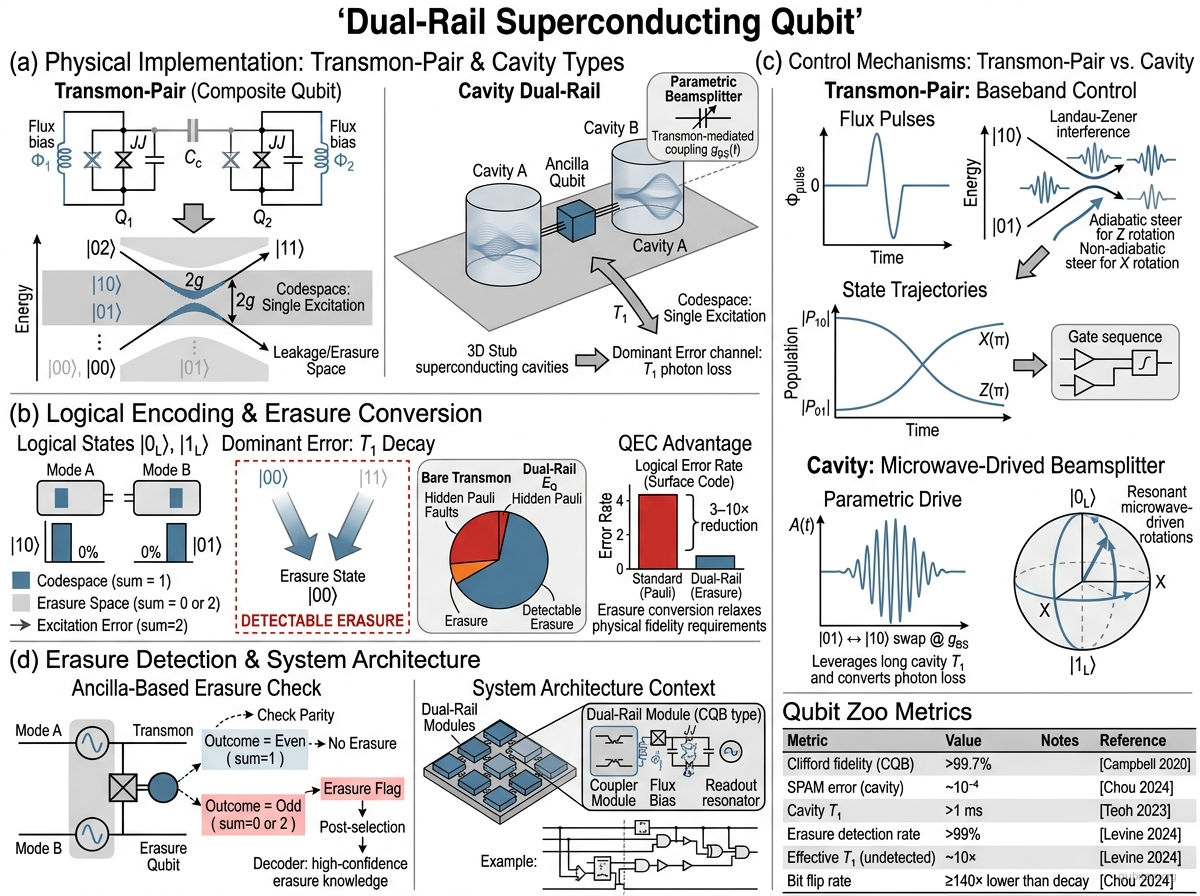
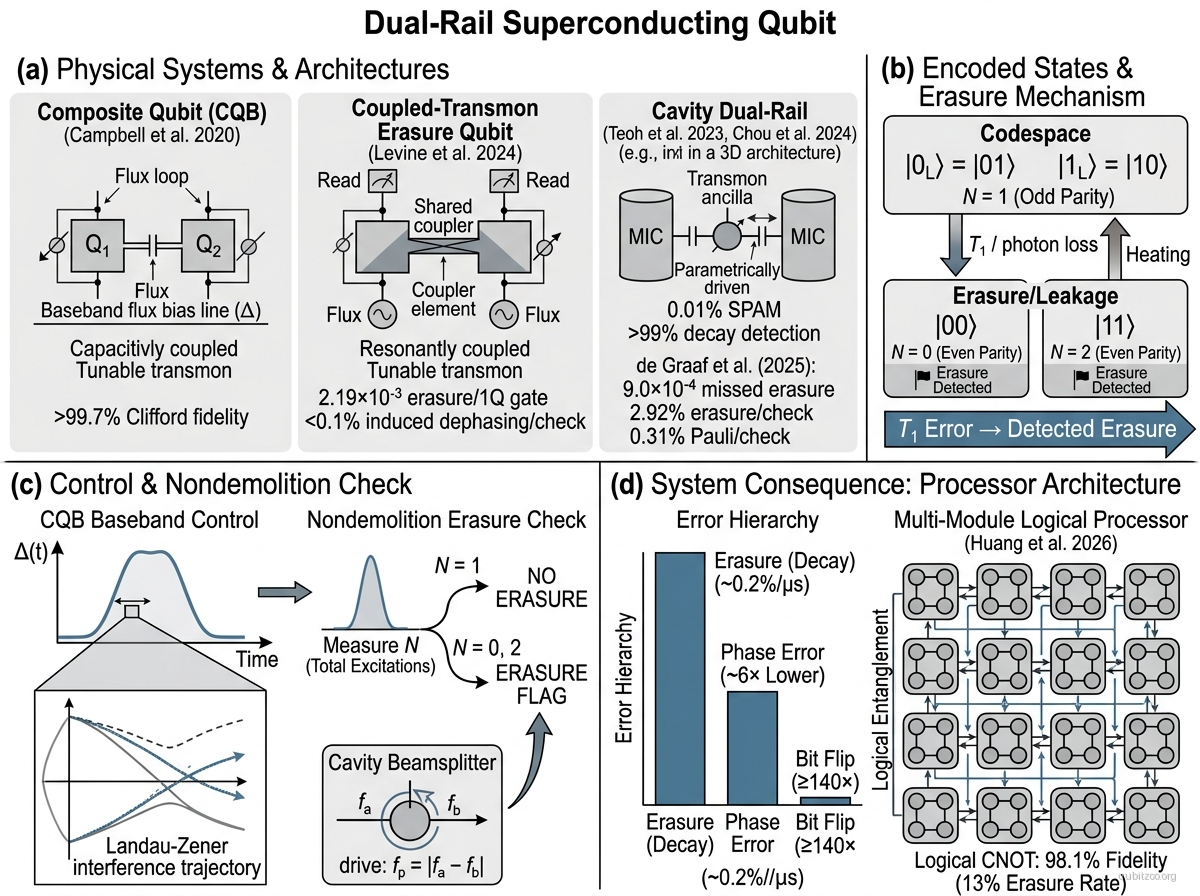
content: deep-audit dual-rail superconducting qubit

diff --git a/content/Zoo/dual-rail-superconducting-qubit.md b/content/Zoo/dual-rail-superconducting-qubit.md
@@ -3,6 +3,7 @@ title: Dual-Rail Superconducting Qubit
 entry_type: qubit
 technology_family: Superconducting
 status: demonstrated
+influence_score: 0.50
 figure_reviewed: true
 first_proposed_year: 2016
 first_demonstrated_year: 2020
@@ -14,15 +15,15 @@ keywords:
 - erasure
 - cavity
 - baseband
-last_updated: '2026-03-21'
+last_updated: '2026-08-13'
 generated_by: scibok-curation
 extracted_by: manual
-verified_by: scibok-manual-2026-03-21
+verified_by: scibok-deep-audit-2026-08-13
 figure_renderer: "nano-banana-2"
 figure_model: "google/gemini-3.1-flash-image-preview"
 figure_provenance: "Figures/dual-rail-superconducting-qubit-figure.provenance.json"
-figure_reviewed_by: "Codex scientific visual audit 2026-08-05"
-figure_reviewed_at: "2026-08-05T04:45:11.017052+00:00"
+figure_reviewed_by: "Codex scientific visual audit 2026-08-13"
+figure_reviewed_at: "2026-08-13T14:23:21.020035+00:00"
 ---
 
 ## Figure
@@ -31,22 +32,24 @@ figure_reviewed_at: "2026-08-05T04:45:11.017052+00:00"
 
 ## Description
 
-The dual-rail superconducting qubit encodes quantum information in the single-excitation subspace of two coupled superconducting modes: $|0_L\rangle = |01\rangle$ and $|1_L\rangle = |10\rangle$. This encoding — borrowed from semiconductor spin qubit and photonic qubit design — converts dominant $T_1$ decay into detectable erasure errors and, in the transmon-pair implementation, enables microwave-free control via baseband pulses.
+The dual-rail superconducting qubit encodes quantum information in the single-excitation subspace of two superconducting modes: $|0_L\rangle = |01\rangle$ and $|1_L\rangle = |10\rangle$ in the bare-mode basis. At resonance, coupled-transmon implementations often work in the symmetric and antisymmetric eigenbasis $|\pm\rangle=(|10\rangle\pm|01\rangle)/\sqrt{2}$. In either basis, loss of the single excitation produces $|00\rangle$, a state outside the codespace that can be detected and reported as an erasure.
 
 The concept originates in quantum optics (a single photon across two spatial modes is the canonical photonic qubit; see [[dual-rail-photonic-qubit]]), but the specific application to superconducting circuits was proposed by Shim & Tahan (2016), who recognized that the same encoding applied to coupled transmons yields a Hamiltonian formally identical to the semiconductor singlet-triplet qubit — with the logical splitting set by mode detuning, controllable by baseband flux/voltage pulses.
 
-The encoding has been realized in two distinct physical platforms:
+The encoding has been realized in three closely related superconducting implementations:
 
-**Transmon-pair (composite qubit, CQB)** — Two capacitively coupled transmons with a small avoided crossing, controlled entirely by non-adiabatic baseband pulses and coherent Landau-Zener interference. No microwave drives required. First demonstrated by Campbell et al. (2020) with Clifford fidelities >99.7%.
+**Small-gap composite qubit (CQB)** — Two capacitively coupled transmons operated around a small avoided crossing and controlled by non-adiabatic baseband pulses plus coherent Landau-Zener interference. Campbell et al. (2020) demonstrated Clifford fidelities above 99.7% without resonant microwave qubit drives.
 
-**Cavity dual-rail** — Two microwave cavities (typically 3D stub cavities with photon lifetimes >1 ms) coupled by a transmon ancilla. The cavity version leverages long photon lifetimes and converts dominant photon loss into detectable erasure events. Note: the cavity implementation does use microwave drives for state preparation, beamsplitter operations, and readout — the strict "no microwave qubit drive" advantage applies primarily to the transmon-pair CQB. Demonstrated by Teoh et al. (2023, Yale/Schoelkopf) and Levine et al. (2024, AWS).
+**Coupled-transmon erasure qubit** — Two resonantly coupled tunable transmons form protected symmetric/antisymmetric logical eigenstates. Levine et al. (2024) demonstrated millisecond-scale codespace coherence, $2.19(2)\times10^{-3}$ erasure probability per single-qubit gate, residual errors about 40 times smaller, and mid-circuit erasure checks adding less than 0.1% dephasing. Huang et al. (2026) scaled this approach to four dual-rail qubits and logical multi-qubit entanglement.
+
+**Cavity dual-rail** — Two long-lived microwave-cavity modes are coupled through driven circuit-QED interactions with a transmon ancilla. The cavity version converts photon loss into erasures but still uses microwave drives for state preparation, beamsplitter operations, erasure checks, and readout. Chou et al. (2024) demonstrated 0.01%-level logical SPAM error and detected more than 99% of cavity-decay events; de Graaf et al. (2025) later demonstrated a hardware-efficient mid-circuit erasure check using joint-photon-number splitting.
 
 Key advantages of the dual-rail encoding:
 
 - **Erasure detection:** The encoded subspace $\{|01\rangle, |10\rangle\}$ has exactly one excitation. Any $T_1$ decay produces $|00\rangle$, which is outside the codespace and detectable — converting the dominant error channel into an erasure. The double-excitation state $|11\rangle$ is also outside the codespace and detectable, but is reached by excitation errors (heating, gate errors), not by $T_1$ relaxation.
 - **Microwave-free control (CQB):** In the transmon-pair implementation, all single-qubit gates are performed by baseband (DC) flux pulses that detune the two transmons, eliminating the need for microwave generators, mixers, and filters per qubit.
 - **Super-semi compatibility:** The encoding is especially natural for variable-junction qubits (gatemons, super-semi junctions) where junction tunability replaces flux tunability.
-- **QEC efficiency:** Erasure conversion reduces surface code overhead by 3–10× compared to standard depolarizing noise.
+- **QEC efficiency:** Because an erasure reveals its location, a distance-$d$ code can ideally correct up to $d-1$ erasures, compared with only $\lfloor(d-1)/2\rfloor$ arbitrary Pauli errors. Real hardware gains depend on the erasure-check and residual-Pauli error budgets.
 
 
 ## Hamiltonian
@@ -55,20 +58,24 @@ Key advantages of the dual-rail encoding:
 
 $$H = \frac{\omega_1}{2}\sigma_z^{(1)} + \frac{\omega_2}{2}\sigma_z^{(2)} + g(\sigma_+^{(1)}\sigma_-^{(2)} + \text{h.c.})$$
 
-In the $\{|01\rangle, |10\rangle\}$ single-excitation subspace, this reduces to:
+In the ordered basis $\{|10\rangle, |01\rangle\}$, and after dropping a common energy offset, this reduces to:
 
 $$H_{\text{encoded}} = \frac{\Delta}{2}\tau_z + g\,\tau_x$$
 
-where $\Delta = \omega_1 - \omega_2$ is the detuning (baseband-controllable via flux) and $g$ is the transmon-transmon coupling. Logical $Z$ rotations come from $\Delta$ (tunable), logical $X$ rotations from $g$ (always-on exchange). This is formally identical to the singlet-triplet spin qubit Hamiltonian $H = (J/2)\sigma_z + (g\mu_B\Delta B_z/2)\sigma_x$ — the semiconductor-superconductor bridge that motivated the proposal.
+where $\Delta = \omega_1 - \omega_2$ is the mode detuning, $g$ is the exchange coupling, and $\tau_i$ act on the bare dual-rail basis. At $\Delta=0$, the eigenstates are $|\pm\rangle=(|10\rangle\pm|01\rangle)/\sqrt{2}$ with splitting $2g$. Detuning and exchange therefore generate rotations about two noncommuting logical axes; the exact pulse implementation differs between the small-gap CQB and the resonantly coupled erasure-qubit architecture. This is the same two-level structure exploited by singlet-triplet spin qubits, up to basis and coefficient conventions.
 
 ### Cavity dual-rail encoding
 
-For two cavities coupled by a transmon ancilla, the beamsplitter interaction in the single-photon subspace gives the same effective Hamiltonian. The transmon mediates a parametrically activated coupling $g_\text{BS}(t)$ between the cavity modes, enabling controlled rotations in the logical subspace.
+For two cavity modes, a parametrically activated beamsplitter interaction has the form
+
+$$H_{\mathrm{BS}}/\hbar=g_{\mathrm{BS}}(t)e^{i\phi}a^\dagger b+g_{\mathrm{BS}}(t)e^{-i\phi}ab^\dagger.$$
+
+In the single-photon subspace this is again a controllable logical transverse interaction. The pump phase $\phi$ selects the equatorial rotation axis; separate mode detuning supplies a logical $Z$ term. Erasure checks measure total excitation number (or an equivalent joint observable) without resolving whether the photon occupies mode $a$ or $b$, so they need not reveal the logical state.
 
 
 ## Motivation
 
-- **Erasure advantage:** Converting $T_1$ errors (the dominant error channel in superconducting qubits) into detectable erasures dramatically improves QEC performance. Erasure errors are ~3× cheaper to correct than Pauli errors in surface codes.
+- **Erasure advantage:** Converting amplitude damping or photon loss into a located error gives the outer decoder more information than an unflagged Pauli fault.
 - **Microwave-free scaling (CQB):** Eliminating microwave control lines removes a major bottleneck for scaling — no microwave generators, mixers, filters, or IQ calibration per qubit.
 - **Temperature tolerance:** Baseband control may enable operation at higher temperatures where microwave thermal population is problematic.
 - **Cross-platform insight:** The semiconductor-inspired encoding demonstrates that design principles from spin qubits can yield practical advantages in superconducting circuits.
@@ -83,16 +90,16 @@ For two cavities coupled by a transmon ancilla, the beamsplitter interaction in 
 - Coupled CQB-CQB operations demonstrated
 - No microwave generators/mixers/filters needed
 
-**Cavity dual-rail — Teoh et al. (2023, Yale/Schoelkopf):**
-- Logical qubit in $|01\rangle$/$|10\rangle$ of two 3D stub superconducting cavities
-- Photon lifetime: >1 ms
-- Erasure:Pauli error ratio strongly biased (>10:1)
-- QND parity measurement via transmon ancilla
+**Cavity dual-rail proposal — Teoh et al. (2023):**
+- Gate-based architecture in the single-photon subspace of two superconducting cavities
+- Universal state preparation, logical readout, and one- and two-qubit gates mediated by a transmon ancilla
+- First-order cavity and ancilla faults designed to become detectable erasures
 
-**Cavity dual-rail — Levine et al. (2024, AWS):**
-- Erasure detection rate: >99% of $T_1$ errors detected
-- Effective $T_1$ (undetected): ~10× improvement over bare transmon
-- First demonstration of erasure conversion in superconducting circuits
+**Coupled-transmon erasure qubit — Levine et al. (2024):**
+- Resonantly coupled tunable transmons, not storage cavities
+- Millisecond-scale codespace coherence
+- Erasure probability $2.19(2)\times10^{-3}$ per single-qubit gate; residual errors about 40 times lower
+- Mid-circuit erasure check with less than 0.1% induced dephasing per check
 
 **Erasure-detected logical measurements — Chou et al. (2024, Yale):**
 - Logical state preparation and measurement errors at the **0.01% level** ($\sim 10^{-4}$)
@@ -100,13 +107,19 @@ For two cavities coupled by a transmon ancilla, the beamsplitter interaction in 
 - Confirmed error hierarchy: decay errors ~0.2%/μs, phase errors 6× less, bit flips ≥140× less
 - First confirmation of the error hierarchy needed for efficient erasure code concatenation
 
-**Two-qubit gates — Mehta et al. (2025, Yale):**
-- Bias-preserving and error-detectable two-qubit entangling operations
-- Demonstrated in dual-rail cavity system
+**Compact cavity and mid-circuit checks — Koottandavida et al. (2024); de Graaf et al. (2025):**
+- Double-post cavity: erasure rate $3.981(3)\,\mathrm{ms}^{-1}$ and residual postselected dephasing up to $0.17\,\mathrm{ms}^{-1}$
+- Joint-photon-number-splitting check: missed-erasure fraction $(9.0\pm0.5)\times10^{-4}$, with 2.92% erasure and 0.31% Pauli error per check
+
+**Two-qubit gates — Quantum Circuits, Inc. Team (2025 preprint):**
+- Approximately 500 ns cavity dual-rail entangling gate
+- Residual gate infidelity below 0.1% after erasure detection and approximately 0.5% erasure per gate
+- The paper title page credits the corporate team; “Mehta et al.” is arXiv metadata rather than the displayed paper byline
 
 **Multi-qubit entanglement — Huang et al. (2026):**
-- Logical multi-qubit entanglement with dual-rail superconducting qubits
-- Published in Nature Physics
+- Four coupled-transmon dual-rail qubits with logical single-qubit gate errors on the order of $10^{-5}$ after postselection
+- Logical Bell-state fidelity 98.8%; logical CNOT process fidelity 98.1% at 13% erasure rate; three-logical-qubit GHZ fidelity 93.9%
+- Published in Nature Physics; the archival values supersede the earlier preprint values
 
 
 ## Key Metrics
@@ -114,13 +127,16 @@ For two cavities coupled by a transmon ancilla, the beamsplitter interaction in 
 | Metric | Value | Notes | Fidelity reference |
 |---|---|---|---|
 | Clifford fidelity (CQB) | >99.7% | Baseband-only control, Landau-Zener | [Campbell et al. 2020](https://doi.org/10.1103/PhysRevX.10.041051) |
+| Erasure per 1Q gate (coupled transmons) | $2.19(2)\times10^{-3}$ | Residual errors ~40× lower | [Levine et al. 2024](https://doi.org/10.1103/PhysRevX.14.011051) |
+| Erasure-check dephasing (coupled transmons) | <0.1% per check | Mid-circuit detection | [Levine et al. 2024](https://doi.org/10.1103/PhysRevX.14.011051) |
 | SPAM error (cavity) | ~10⁻⁴ (0.01%) | Erasure-detected logical measurement | [Chou et al. 2024](https://doi.org/10.1038/s41567-024-02539-4) |
-| Cavity $T_1$ | >1 ms | 3D stub cavities | [Teoh et al. 2023](https://doi.org/10.1073/pnas.2221736120) |
-| Erasure detection rate | >99% | Dominant $T_1$ errors detected | [Levine et al. 2024](https://doi.org/10.1103/PhysRevX.14.011051) |
-| Effective $T_1$ (undetected) | ~10× bare | After erasure post-selection | [Levine et al. 2024](https://doi.org/10.1103/PhysRevX.14.011051) |
+| Cavity-decay detection | >99% | Decay events assigned as erasures | [Chou et al. 2024](https://doi.org/10.1038/s41567-024-02539-4) |
 | Decay error rate | ~0.2%/μs | Dominant error channel | [Chou et al. 2024](https://doi.org/10.1038/s41567-024-02539-4) |
 | Phase error rate | ~6× lower than decay | Confirmed error hierarchy | [Chou et al. 2024](https://doi.org/10.1038/s41567-024-02539-4) |
 | Bit flip rate | ≥140× lower than decay | Strongly suppressed | [Chou et al. 2024](https://doi.org/10.1038/s41567-024-02539-4) |
+| Missed-erasure fraction (cavity check) | $(9.0\pm0.5)\times10^{-4}$ | Joint-photon-number splitting | [de Graaf et al. 2025](https://doi.org/10.1038/s41534-024-00944-4) |
+| Logical CNOT process fidelity | 98.1% | 13% erasure rate; four-dual-rail processor | [Huang et al. 2026](https://doi.org/10.1038/s41567-026-03211-9) |
+| Three-logical-qubit GHZ fidelity | 93.9% | Coupled-transmon dual rail | [Huang et al. 2026](https://doi.org/10.1038/s41567-026-03211-9) |
 
 
 ## Scaling Considerations
@@ -128,7 +144,7 @@ For two cavities coupled by a transmon ancilla, the beamsplitter interaction in 
 - **Microwave-free advantage (CQB):** Eliminates microwave generators, mixers, and filters per qubit — major simplification for large-scale systems.
 - **Temperature tolerance:** Baseband control may enable operation at higher temperatures where microwave thermal population is problematic.
 - **Super-semi synergy:** Gate-voltage-tunable junctions (gatemons) are a natural fit: detuning is controlled by gate voltages rather than flux, avoiding flux noise entirely.
-- **QEC integration:** Erasure conversion reduces surface code overhead by 3–10× compared to standard depolarizing noise. The confirmed error hierarchy (decay ≫ phase ≫ bit flip) enables efficient concatenation with tailored erasure codes.
+- **QEC integration:** The confirmed hierarchy (erasure/decay ≫ phase ≫ bit flip) can be exploited by an outer code, but system-level benefit requires counting the erasure rate, residual Pauli faults, check-induced faults, and the cost of postselection or real-time decoding together.
 
 
 ## References
@@ -141,14 +157,16 @@ For two cavities coupled by a transmon ancilla, the beamsplitter interaction in 
 
 ### Cavity dual-rail
 - J. D. Teoh et al., "Dual-rail encoding with superconducting cavities," [PNAS 120, e2221736120 (2023)](https://doi.org/10.1073/pnas.2221736120) — [arXiv:2212.12077](https://arxiv.org/abs/2212.12077)
+- A. Koottandavida et al., "Erasure Detection of a Dual-Rail Qubit Encoded in a Double-Post Superconducting Cavity," [PRL 132, 180601 (2024)](https://doi.org/10.1103/PhysRevLett.132.180601)
+
+### Coupled-transmon erasure qubit
 - H. Levine et al., "Demonstrating a long-coherence dual-rail erasure qubit using tunable transmons," [PRX 14, 011051 (2024)](https://doi.org/10.1103/PhysRevX.14.011051) — [arXiv:2307.08737](https://arxiv.org/abs/2307.08737)
+- W. Huang et al., "Logical multi-qubit entanglement with dual-rail superconducting qubits," [Nature Phys. 22, 591–597 (2026)](https://doi.org/10.1038/s41567-026-03211-9) — [arXiv:2504.12099](https://arxiv.org/abs/2504.12099)
 
 ### Erasure-detected logical operations
-- K. S. Chou et al., "Demonstrating a superconducting dual-rail cavity qubit with erasure-detected logical measurements," [Nature Phys. (2024)](https://doi.org/10.1038/s41567-024-02539-4) — [arXiv:2307.03169](https://arxiv.org/abs/2307.03169)
-- N. Mehta et al., "Bias-preserving and error-detectable entangling operations in a superconducting dual-rail system," [arXiv:2503.10935 (2025)](https://arxiv.org/abs/2503.10935)
-
-### Multi-qubit entanglement
-- W. Huang et al., "Logical multi-qubit entanglement with dual-rail superconducting qubits," [Nature Phys. (2026)](https://doi.org/10.1038/s41567-026-03211-9)
+- K. S. Chou et al., "A superconducting dual-rail cavity qubit with erasure-detected logical measurements," [Nature Phys. 20, 1454–1460 (2024)](https://doi.org/10.1038/s41567-024-02539-4) — [arXiv:2307.03169](https://arxiv.org/abs/2307.03169)
+- S. J. de Graaf et al., "A mid-circuit erasure check on a dual-rail cavity qubit using the joint-photon number-splitting regime of circuit QED," [npj Quantum Inf. 11, 1 (2025)](https://doi.org/10.1038/s41534-024-00944-4)
+- Quantum Circuits, Inc. Team, "Bias-preserving and error-detectable entangling operations in a superconducting dual-rail system," [arXiv:2503.10935 (2025)](https://arxiv.org/abs/2503.10935)
 
 ### Related photonic dual-rail
 - E. Knill, R. Laflamme, and G. J. Milburn, "A scheme for efficient quantum computation with linear optics," [Nature 409, 46 (2001)](https://doi.org/10.1038/35051009) — KLM protocol using dual-rail photonic encoding
@@ -160,6 +178,9 @@ For two cavities coupled by a transmon ancilla, the beamsplitter interaction in 
 - [[teoh-2023-dual-rail-cavity]]
 - [[levine-2024-dual-rail-erasure]]
 - [[chou-2024-superconducting-dual-rail]]
+- [[koottandavida-2024-double-post-dual-rail]]
+- [[de-graaf-2025-mid-circuit-erasure-check]]
+- [[qci-team-2025-bias-preserving-dual-rail]]
 - [[grassl-1997-codes-quantum-erasure-channel]]
 - [[huang-2026-logical-multi-qubit]]
 

diff --git a/content/References/levine-2024-dual-rail-erasure.md b/content/References/levine-2024-dual-rail-erasure.md
@@ -10,7 +10,7 @@ authors:
 - E. A. Wollack
 - P. Arrangoiz-Arriola
 - A. Khalajhedayati
-- R. Bhaskar
+- R. Sanil
 - others
 year: 2024
 journal: Physical Review X
@@ -18,16 +18,16 @@ doi: 10.1103/PhysRevX.14.011051
 arxiv_id: '2307.08737'
 type: reference
 generated_by: scibok-curation
-last_updated: '2026-03-15'
+last_updated: '2026-08-13'
 ---
 
-First experimental demonstration of a dual-rail erasure qubit in superconducting circuits. Encodes a qubit in the single-photon subspace of two coupled transmon-based cavities, where the dominant T₁ errors are converted to detectable erasure events (photon loss leaves the codespace). Achieves coherence times significantly beyond the T₁ limit of the individual components.
+Experimental dual-rail erasure qubit formed from two resonantly coupled tunable transmons. The logical eigenstates are symmetric and antisymmetric combinations in the single-excitation manifold; transmon $T_1$ loss leaves that manifold as a detectable erasure, while the hybridization suppresses residual dephasing.
 
 ## Key Results
-- Erasure detection rate: >99% of T₁ errors detected as erasures
-- Effective T₁ (undetected error): ~10× improvement over bare transmon T₁
-- Dual-rail encoding: |0⟩ = |10⟩, |1⟩ = |01⟩ across two modes
-- Compatible with surface code error correction with reduced overhead
+- Millisecond-scale coherence within the qubit subspace
+- Erasure probability per single-qubit gate: $2.19(2)\times10^{-3}$
+- Residual errors approximately 40 times lower than erasures
+- Mid-circuit erasure check induced less than 0.1% dephasing per check
 
 
 ## Links
@@ -37,3 +37,4 @@ First experimental demonstration of a dual-rail erasure qubit in superconducting
 ## Zoo Links
 - [[erasure-qubit]]
 - [[transmon]]
+- [[dual-rail-superconducting-qubit]]

diff --git a/content/References/chou-2024-superconducting-dual-rail.md b/content/References/chou-2024-superconducting-dual-rail.md
@@ -4,18 +4,22 @@ authors: [Kevin S. Chou, Tali Shemma, Heather McCarrick, Tzu-Chiao Chien, James 
 year: 2024
 journal: "Nature Physics"
 doi: 10.1038/s41567-024-02539-4
+arxiv_id: '2307.03169'
 type: reference
 generated_by: scibok-audit-backfill
-last_updated: '2026-03-25'
+last_updated: '2026-08-13'
 ---
 
-This paper presents work on a superconducting dual-rail cavity qubit with erasure-detected logical measurements.
+Experimental dual-rail qubit encoded in the single-photon subspace of two superconducting cavities, with projective logical measurement integrated with erasure detection.
 
 ## Key Results
-- Presents a superconducting dual-rail cavity qubit with erasure-detected logical measurements
+- Logical state preparation and measurement error at the 0.01% level
+- More than 99% of cavity-decay events detected as erasures
+- Decay errors near 0.2% per microsecond, phase errors six times lower, and bit flips at least 140 times lower
 
 ## Links
 - **Journal:** [Nature Physics](https://doi.org/10.1038/s41567-024-02539-4)
+- **arXiv:** [2307.03169](https://arxiv.org/abs/2307.03169)
 
 ## Zoo Links
 - [[dual-rail-superconducting-qubit]]

diff --git a/content/References/huang-2026-logical-multi-qubit.md b/content/References/huang-2026-logical-multi-qubit.md
@@ -4,18 +4,23 @@ authors: [Wenhui Huang, Xuandong Sun, Jiawei Zhang, Zechen Guo, Peisheng Huang, 
 year: 2026
 journal: "Nature Physics"
 doi: 10.1038/s41567-026-03211-9
+arxiv_id: '2504.12099'
 type: reference
 generated_by: scibok-audit-backfill
-last_updated: '2026-03-25'
+last_updated: '2026-08-13'
 ---
 
-This paper presents work on logical multi-qubit entanglement with dual-rail superconducting qubits.
+Four coupled-transmon dual-rail erasure qubits integrated in a superconducting processor, extending the platform from protected single-qubit operation to universal logical control and multi-qubit entanglement.
 
 ## Key Results
-- Presents logical multi-qubit entanglement with dual-rail superconducting qubits
+- Logical Bell-state fidelity: 98.8%
+- Logical CNOT process fidelity: 98.1% at a 13% erasure rate
+- Three-logical-qubit GHZ-state fidelity: 93.9%
+- Archival Nature Physics values supersede the earlier preprint values
 
 ## Links
 - **Journal:** [Nature Physics](https://doi.org/10.1038/s41567-026-03211-9)
+- **arXiv:** [2504.12099](https://arxiv.org/abs/2504.12099)
 
 ## Zoo Links
 - [[dual-rail-superconducting-qubit]]

diff --git a/content/References/de-graaf-2025-mid-circuit-erasure-check.md b/content/References/de-graaf-2025-mid-circuit-erasure-check.md
@@ -1,0 +1,24 @@
+---
+title: A mid-circuit erasure check on a dual-rail cavity qubit using the joint-photon number-splitting regime of circuit QED
+authors: [Stijn J. de Graaf, Sophia H. Xue, Benjamin J. Chapman, James D. Teoh, Takahiro Tsunoda, Patrick Winkel, John W. O. Garmon, Kathleen M. Chang, Luigi Frunzio, Shruti Puri, Robert J. Schoelkopf]
+year: 2025
+journal: npj Quantum Information
+doi: 10.1038/s41534-024-00944-4
+type: reference
+generated_by: scibok-deep-audit
+last_updated: '2026-08-13'
+---
+
+Hardware-efficient mid-circuit erasure check for a dual-rail qubit in two superconducting cavities. A strong parametric beamsplitter makes the ancilla spectrum depend on joint photon number, allowing total-excitation information to be measured without resolving the logical rail.
+
+## Key Results
+- Missed-erasure fraction: $(9.0\pm0.5)\times10^{-4}$
+- Erasure rate per check: $2.92\pm0.01\%$
+- Pauli error rate per check: $0.31\pm0.01\%$
+
+## Links
+- **Journal:** [npj Quantum Information](https://doi.org/10.1038/s41534-024-00944-4)
+
+## Zoo Links
+- [[dual-rail-superconducting-qubit]]
+- [[qubit-readout]]

diff --git a/content/References/koottandavida-2024-double-post-dual-rail.md b/content/References/koottandavida-2024-double-post-dual-rail.md
@@ -1,0 +1,24 @@
+---
+title: Erasure Detection of a Dual-Rail Qubit Encoded in a Double-Post Superconducting Cavity
+authors: [Akshay Koottandavida, Ioannis Tsioutsios, Aikaterini Kargioti, Cassady R. Smith, Vidul R. Joshi, Wei Dai, James D. Teoh, Jacob C. Curtis, Luigi Frunzio, Robert J. Schoelkopf, Michel H. Devoret]
+year: 2024
+journal: Physical Review Letters
+doi: 10.1103/PhysRevLett.132.180601
+type: reference
+generated_by: scibok-deep-audit
+last_updated: '2026-08-13'
+---
+
+Experimental dual-rail qubit encoded in the symmetric and antisymmetric modes of a compact double-post superconducting cavity, with an auxiliary transmon used for erasure detection and joint-Wigner tomography.
+
+## Key Results
+- Erasure rate: $3.981(3)\,\mathrm{ms}^{-1}$
+- Residual postselected dephasing rate: up to $0.17\,\mathrm{ms}^{-1}$
+- Demonstrates a compact hardware-efficient cavity realization with a strong erasure-versus-dephasing hierarchy
+
+## Links
+- **Journal:** [Physical Review Letters](https://doi.org/10.1103/PhysRevLett.132.180601)
+
+## Zoo Links
+- [[dual-rail-superconducting-qubit]]
+- [[erasure-qubit]]

diff --git a/content/References/qci-team-2025-bias-preserving-dual-rail.md b/content/References/qci-team-2025-bias-preserving-dual-rail.md
@@ -1,0 +1,25 @@
+---
+title: Bias-preserving and error-detectable entangling operations in a superconducting dual-rail system
+authors: [Quantum Circuits, Inc. Team]
+year: 2025
+arxiv_id: '2503.10935'
+type: reference
+status: preprint
+generated_by: scibok-deep-audit
+last_updated: '2026-08-13'
+---
+
+Experimental two-qubit entangling gate for cavity dual-rail erasure qubits. The displayed paper title page credits the Quantum Circuits, Inc. Team, although the arXiv metadata lists individual authors beginning with Nitish Mehta.
+
+## Key Results
+- Gate duration approximately 500 ns
+- Residual gate infidelity below 0.1% after erasure detection
+- Erasure probability approximately 0.5% per gate
+- Bit-flip errors bounded at the few-parts-per-million level
+
+## Links
+- **arXiv:** [2503.10935](https://arxiv.org/abs/2503.10935)
+
+## Zoo Links
+- [[dual-rail-superconducting-qubit]]
+- [[erasure-qubit]]
